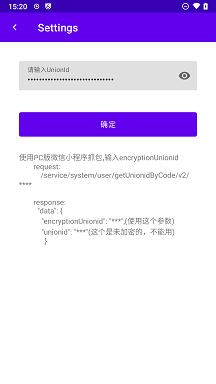
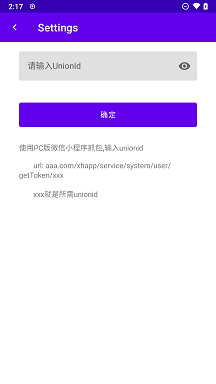
更新说明图及文字

Changed region(s): [[0.0833, 0.125, 0.9167, 0.5], [0.1389, 0.5, 0.8056, 0.625], [0.0278, 0.0, 0.25, 0.0312]]

diff --git a/app/src/main/java/com/mmc/smartkey/ui/InputUnionIdActivity.kt b/app/src/main/java/com/mmc/smartkey/ui/InputUnionIdActivity.kt
@@ -16,7 +16,7 @@ class InputUnionIdActivity : AppCompatActivity() {
 
     private  val tips = """使用PC版微信小程序抓包,输入unionid
         
-        url: aaa.com/service/system/user/getToken/xxx
+        url: aaa.com/xhapp/service/system/user/getToken/xxx
         
         xxx就是所需unionid
     """
